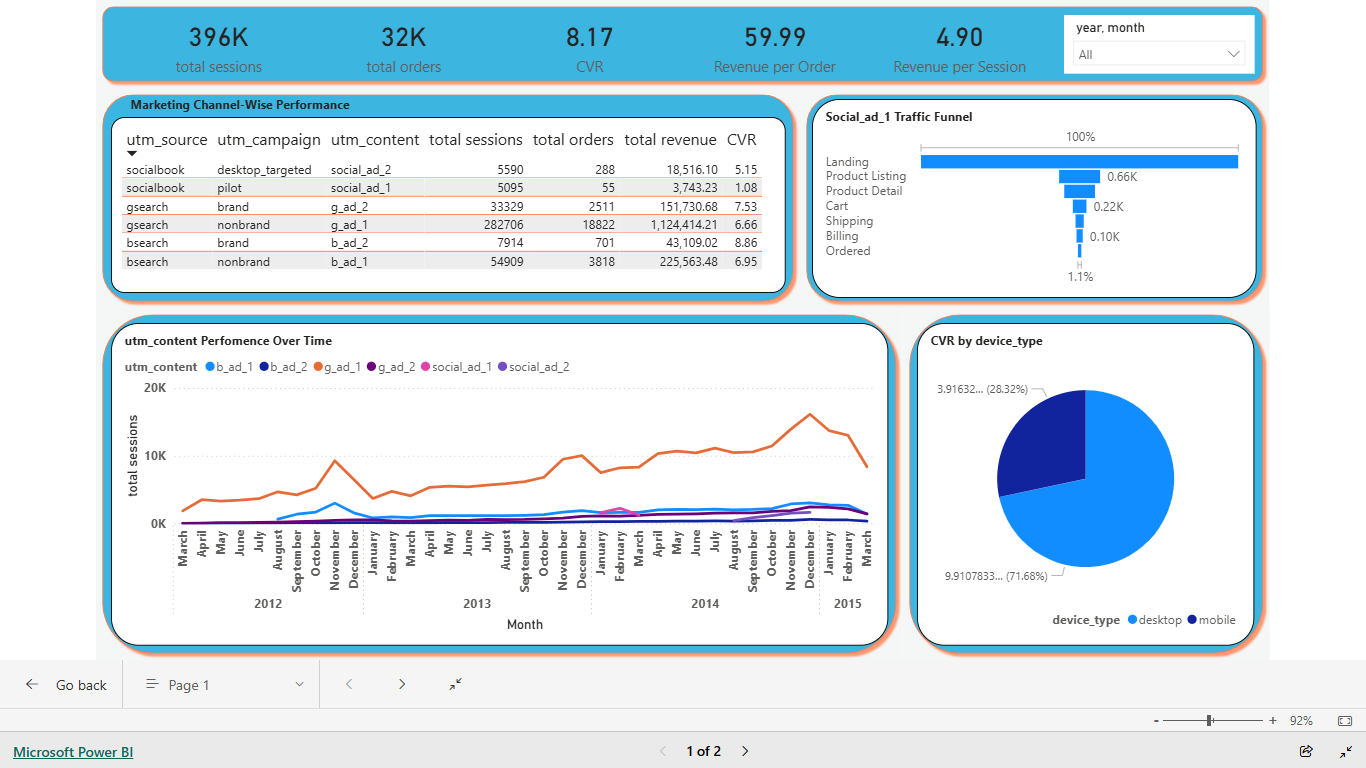
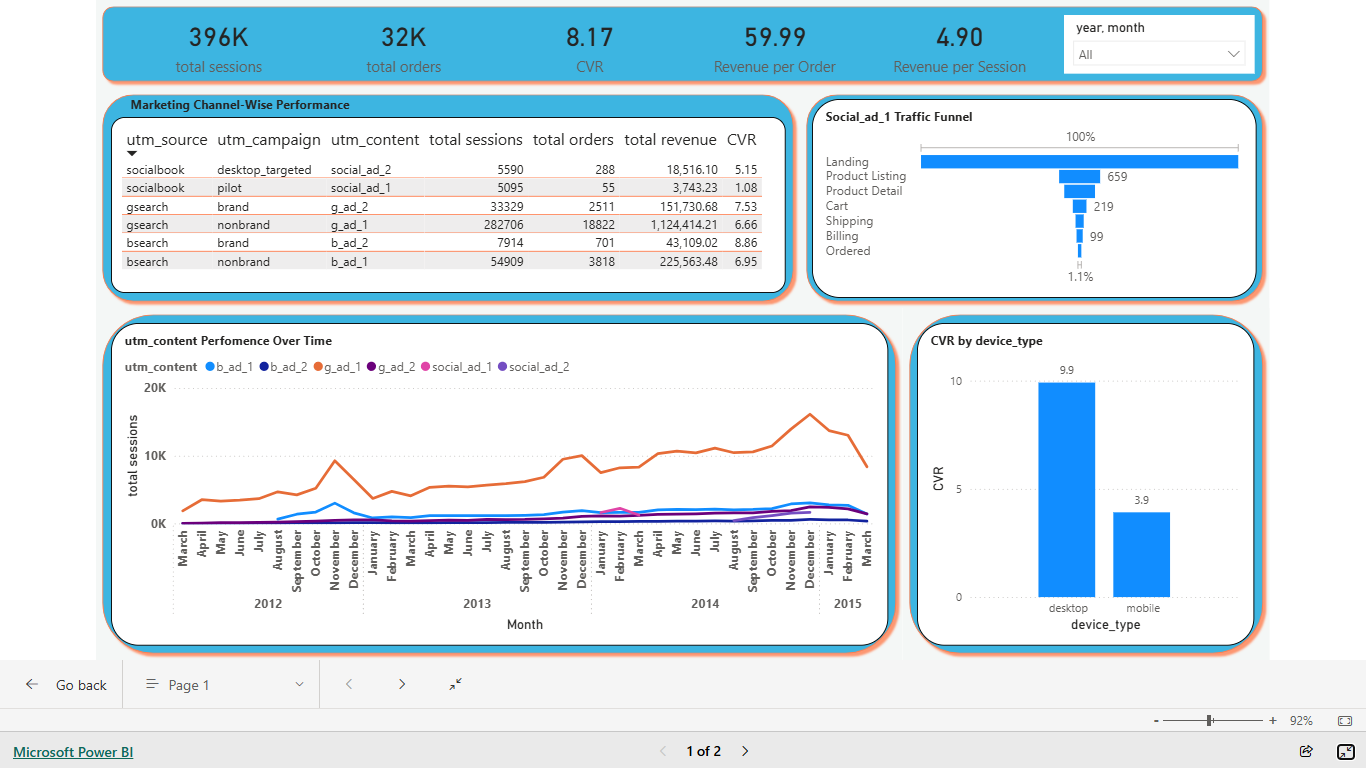
Merged README changes and updated dashboard

Changed region(s): [[0.6764, 0.4688, 0.8917, 0.8438], [0.7994, 0.2188, 0.8302, 0.3125], [0.9839, 0.9688, 1.0, 1.0]]

diff --git a/README.md b/README.md
@@ -9,7 +9,7 @@ This project was initiated to audit the marketing effectiveness, identify funnel
 ---
 
 ## 🎯 Executive Summary
-The primary objective of this project was to perform a comprehensive audit of marketing campaigns and the sales funnel. Analysis revealed that while **Q4 (Nov-Dec)** experienced stable growth driven by successful search campaigns, significant conversion leakages exist within **Social Media channels** and the **Mobile User Experience (UX)**. By rectifying these inefficiencies and scaling high-performing search campaigns (`g_ad_1`), the business can potentially increase revenue by **15-20%**.
+The primary objective of this project was to perform a comprehensive audit of marketing campaigns and the sales funnel. Analysis revealed that while **Q4 (Nov-Dec)** experienced stable growth driven by successful search campaigns, significant conversion leakages exist within **Social Media channels** and the **Mobile User Experience (UX)**. By rectifying these inefficiencies and scaling high-performing search campaigns (`g_ad_1`), the business can potentially increase revenue by **15-20%** organic revenue uplift (approx. $300k - $380k).
 
 ## 📊 Dashboard Preview
 
@@ -20,24 +20,24 @@ The primary objective of this project was to perform a comprehensive audit of ma
 ### 1. Marketing & Campaign Performance
 * **Seasonal Scaling:** A consistent traffic spike was observed every November and December (Q4). The primary driver is **Non-Brand Search (`g_ad_1`)**, which demonstrates high scalability by maintaining stable conversion rates even at high volumes.
 * **Social Media Inefficiency:** The `social_ad_1` (Pilot) campaign has a critically low conversion rate (**~1.08%**). Root Cause Analysis (RCA) shows an **88% drop-off from the Lander to the Product Listing page**, indicating a severe mismatch between ad creatives and landing page content.
-* **Brand Equity:** Brand campaigns show a high conversion rate (8.8%) but low traffic volume, suggesting a significant opportunity to increase organic brand awareness.
+* **Brand Equity:** Brand campaigns show a high conversion rate around (7-8%) but low traffic volume, suggesting a significant opportunity to increase organic brand awareness.
 
 ### 2. Conversion Funnel & UX Efficiency
 * **Mobile Conversion Gap:** Mobile conversion (**3.91%**) significantly lags behind Desktop (**9.91%**). Mobile users experience a **Cart-to-Shipping drop-off** 10% higher than desktop users, signaling potential UI/UX friction or payment gateway issues on mobile devices.
 * **A/B Testing Success:** The new `/billing-2` page outperformed the original `/billing` page, showing a measurable lift in conversion.
-* **Temporal Patterns:** Order volume dips by **50% during weekends**, indicating that the product follows a weekday-dominant professional/corporate purchasing cycle.
+* **Temporal Patterns:** Order volume dips by around **50% during weekends**, indicating that the product follows a weekday-dominant professional/corporate purchasing cycle.
 
 ### 3. Business & Unit Economics
 * **Hero Product Identification:** "The Original Mr. Fuzzy" has remained the top-selling product since launch, contributing the majority of the total revenue share.
-* **Retention Challenges:** Repeat sessions (**~30k**) are significantly lower than new acquisitions, and the repeat conversion rate is only **7%**. The business is currently overly dependent on new user acquisition.
+* **Retention Challenges:** Repeat sessions (**~30k**) are significantly lower than new acquisitions, and the repeat conversion rate is **20%**. The business is currently overly dependent on new user acquisition.
 * **Profitability Metrics:** Revenue Per Session (RPS) is stabilized at **$4.89**, with an Average Order Value (AOV) of **$59.99**.
 
 ---
 
 ## 💡 Strategic Recommendations
-1.  **Optimize Mobile Checkout:** Immediate technical audit of the mobile payment gateway and form fields is required to bridge the 10% conversion gap.
+1.  **Optimize Mobile Checkout:** Immediate technical audit of the mobile payment gateway and form fields is required to bridge the 10% conversion gap on every step between Cart-to-Shipping.
 2.  **Reallocate Marketing Budget:** Pause underperforming social media ads on `/lander-1` and `/lander-3` and reallocate the budget to high-performing `g_ad_1` campaigns.
-3.  **Implement Retention Strategies:** Launch a Loyalty Program or Email Remarketing workflows to increase the current 7% repeat customer conversion rate.
+3.  **Implement Retention Strategies:** Launch a Loyalty Program or Email Remarketing workflows to increase the current 30k repeat customer traffic.
 4.  **Inventory Forecasting:** Maintain 1.5x stock levels for "Mr. Fuzzy" during Q4 to prevent stock-out losses during peak demand.
 
 ---
